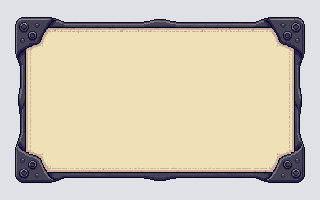
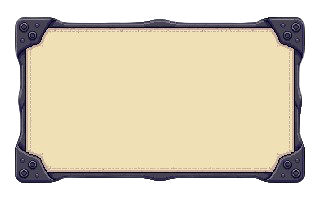
Activity: tooltip frame PNG transparent edge; drop 122% crop hack
Restore 100% bg-size; parchment fill under transparent pixels

Made-with: Cursor

diff --git a/activity/src/style.css b/activity/src/style.css
@@ -1141,9 +1141,8 @@ code {
 }
 
 /*
-  Tooltip frame PNG includes margin + light matte outside the ornate border (and
-  often white AA fringes). 100% 100% stretches that into the card → “white sheet”.
-  Zoom/crop the bitmap slightly so only the frame shows; base color fills any sliver.
+  tooltip-frame.png: transparent outside the border — background-color fills that.
+  If the parchment center is also transparent in your export, this tan shows through.
 */
 .item-tip-card {
   width: fit-content;
@@ -1154,13 +1153,13 @@ code {
   padding: 0;
   overflow: hidden;
   isolation: isolate;
-  background-color: #2a2432;
+  background-color: #8f7f62;
   background-image:
-    linear-gradient(180deg, rgba(42, 36, 28, 0.14) 0%, rgba(22, 18, 14, 0.22) 100%),
+    linear-gradient(180deg, rgba(42, 36, 28, 0.12) 0%, rgba(22, 18, 14, 0.2) 100%),
     var(--ui-tooltip-frame);
-  background-size: 100% 100%, 122% 122%;
-  background-repeat: no-repeat, no-repeat;
-  background-position: center, center;
+  background-size: 100% 100%;
+  background-repeat: no-repeat;
+  background-position: center;
   color: #12100e;
   box-shadow:
     0 0 0 1px rgba(0, 0, 0, 0.45),
